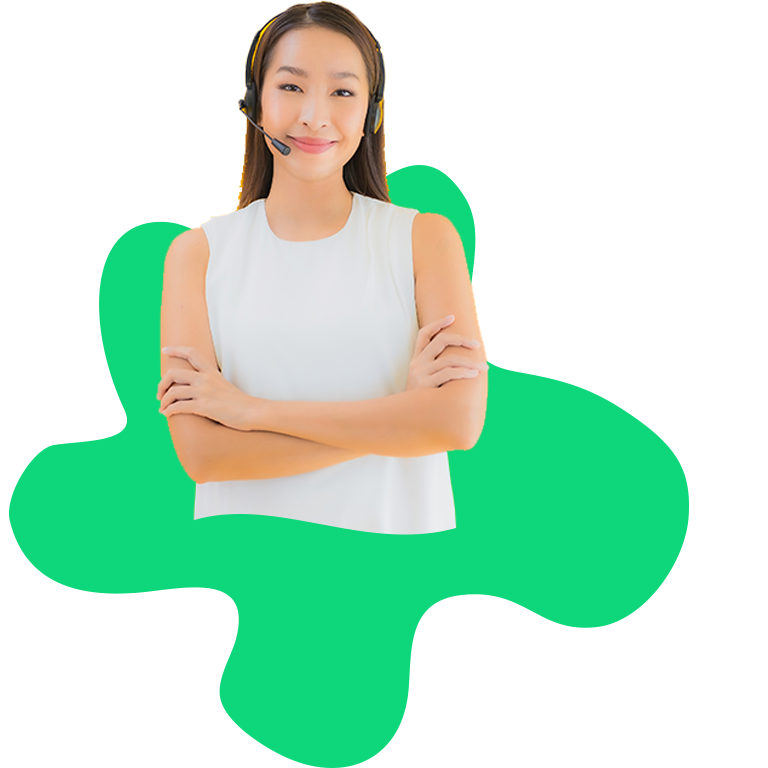
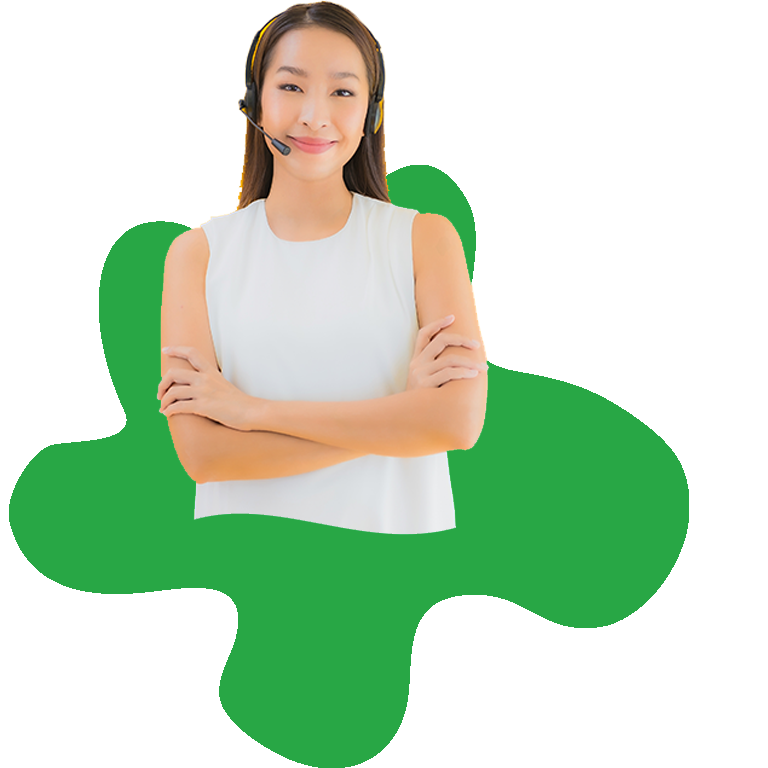
Color Changes

Changed region(s): [[0.0, 0.2812, 0.9062, 1.0], [0.5, 0.1875, 0.625, 0.375]]

diff --git a/Library-client-master/src/components/Contact.js b/Library-client-master/src/components/Contact.js
@@ -20,7 +20,7 @@ export default function Contact() {
             <Row>
                 <Col data-aos="fade-up"  md={5}>
                     <ScrollAnimation className="animate__slower" animateIn="fadeInUp">
-                        <Image className="why-img" src='/call.png' alt={"girl"} />  </ScrollAnimation>
+                        <Image className="why-img" src='/call.png' alt={"gir"} />  </ScrollAnimation>
                 </Col>
                 <Col data-aos="fade-up"  md={7}>
                     <ScrollAnimation className="animate__slower" animateIn="fadeInUp">

diff --git a/Library-client-master/src/components/Tips.js b/Library-client-master/src/components/Tips.js
@@ -28,7 +28,7 @@ export default function Tips() {
                 </Col>
                 <Col data-aos="fade-up"  md={5}>
                     <ScrollAnimation className="animate__slower" animateIn="fadeInUp">  
-                    <Image className="why-img" src='/girl.png' alt={"girl"} />  </ScrollAnimation>
+                    <Image className="why-img" src='/girl.png' alt={"gir"} />  </ScrollAnimation>
                 </Col>
 
 

diff --git a/Library-client-master/src/styles/styles.scss b/Library-client-master/src/styles/styles.scss
@@ -470,7 +470,7 @@ font-size: 10px !important;
     font-size: 16px;
     margin-left: 10px;
     font-weight: 500;
-    color: #0abe0a;
+    color: $teritary;
 }
 .course-date-icon{
     font-size: 10px;
@@ -562,7 +562,7 @@ padding: 23px 0 23px 0;
 
 .filter-exam_date{
     margin-left: 25px; 
-    color: #0abe0a;
+    color: $teritary;
 }
 
 .filter-exam_icon {

diff --git a/Library-client-master/src/styles/variables.scss b/Library-client-master/src/styles/variables.scss
@@ -1,5 +1,5 @@
-$primary:#ffbe05;
-$secondry:#4b4b4b;
-$teritary:#00E676;
+$primary:#fdc632;
+$secondry:#9c9d9e;
+$teritary:#28a745;
 
-$main:#323434;
+$main:#002347;
